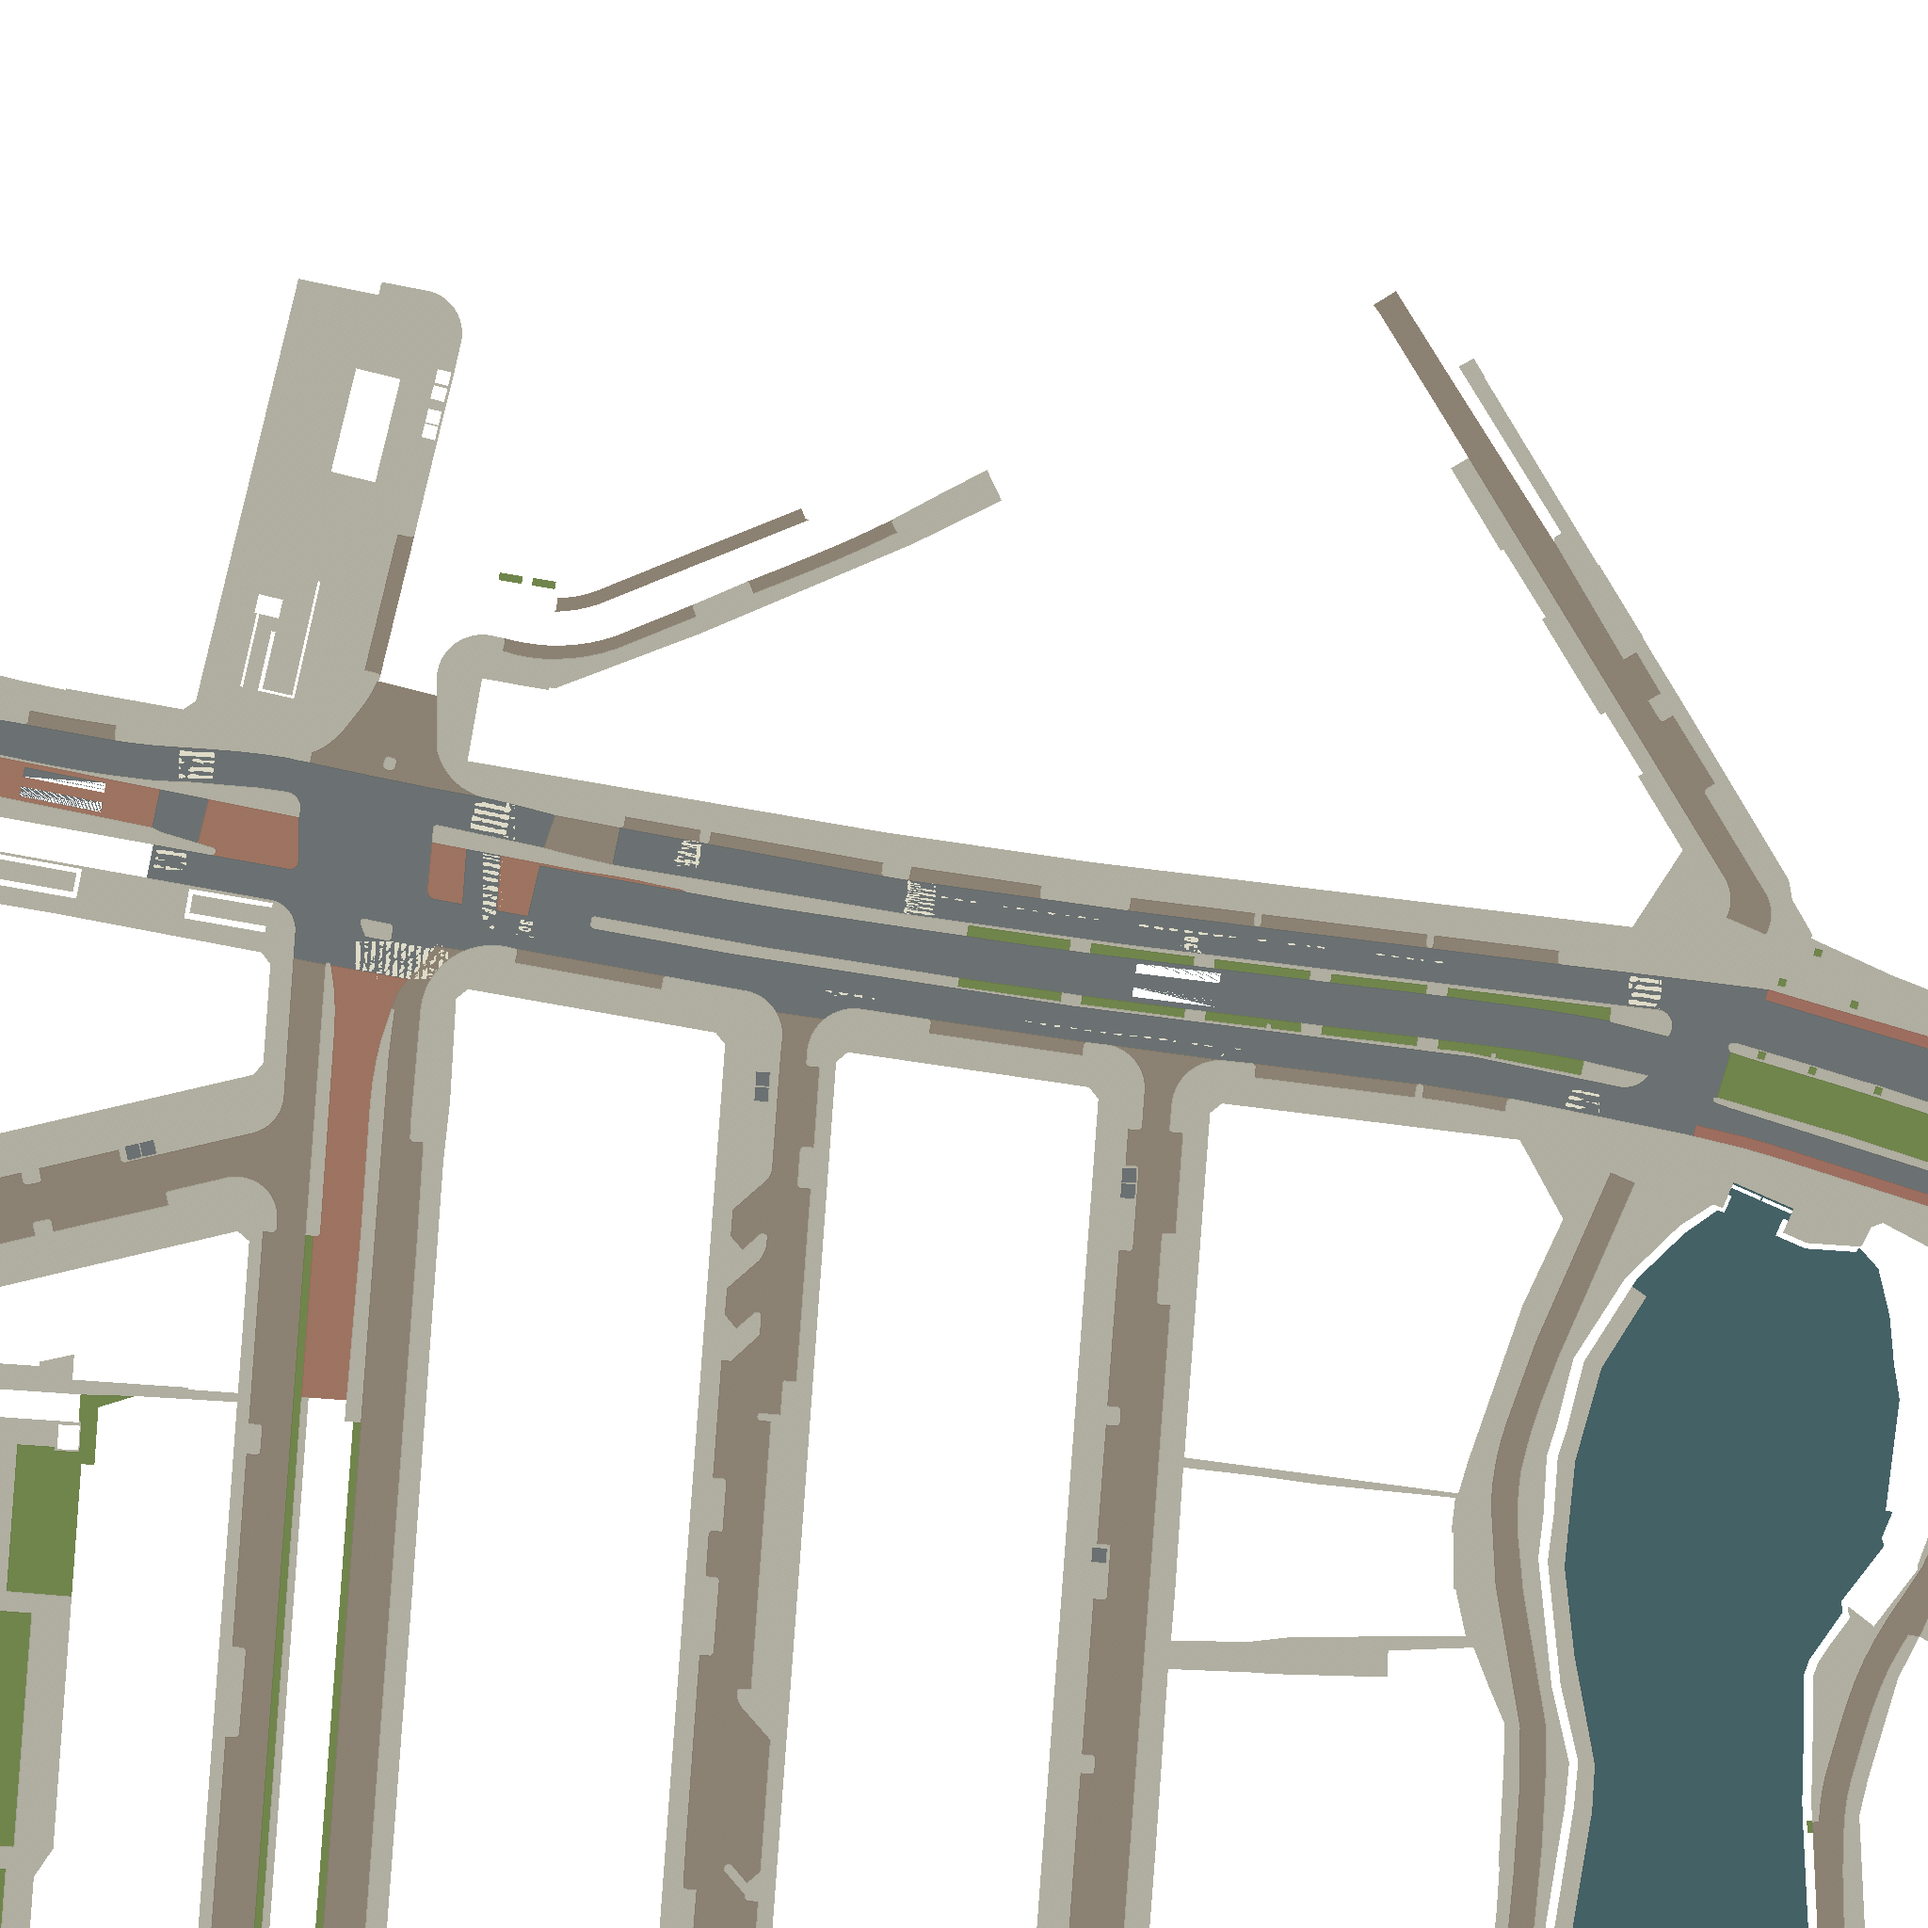
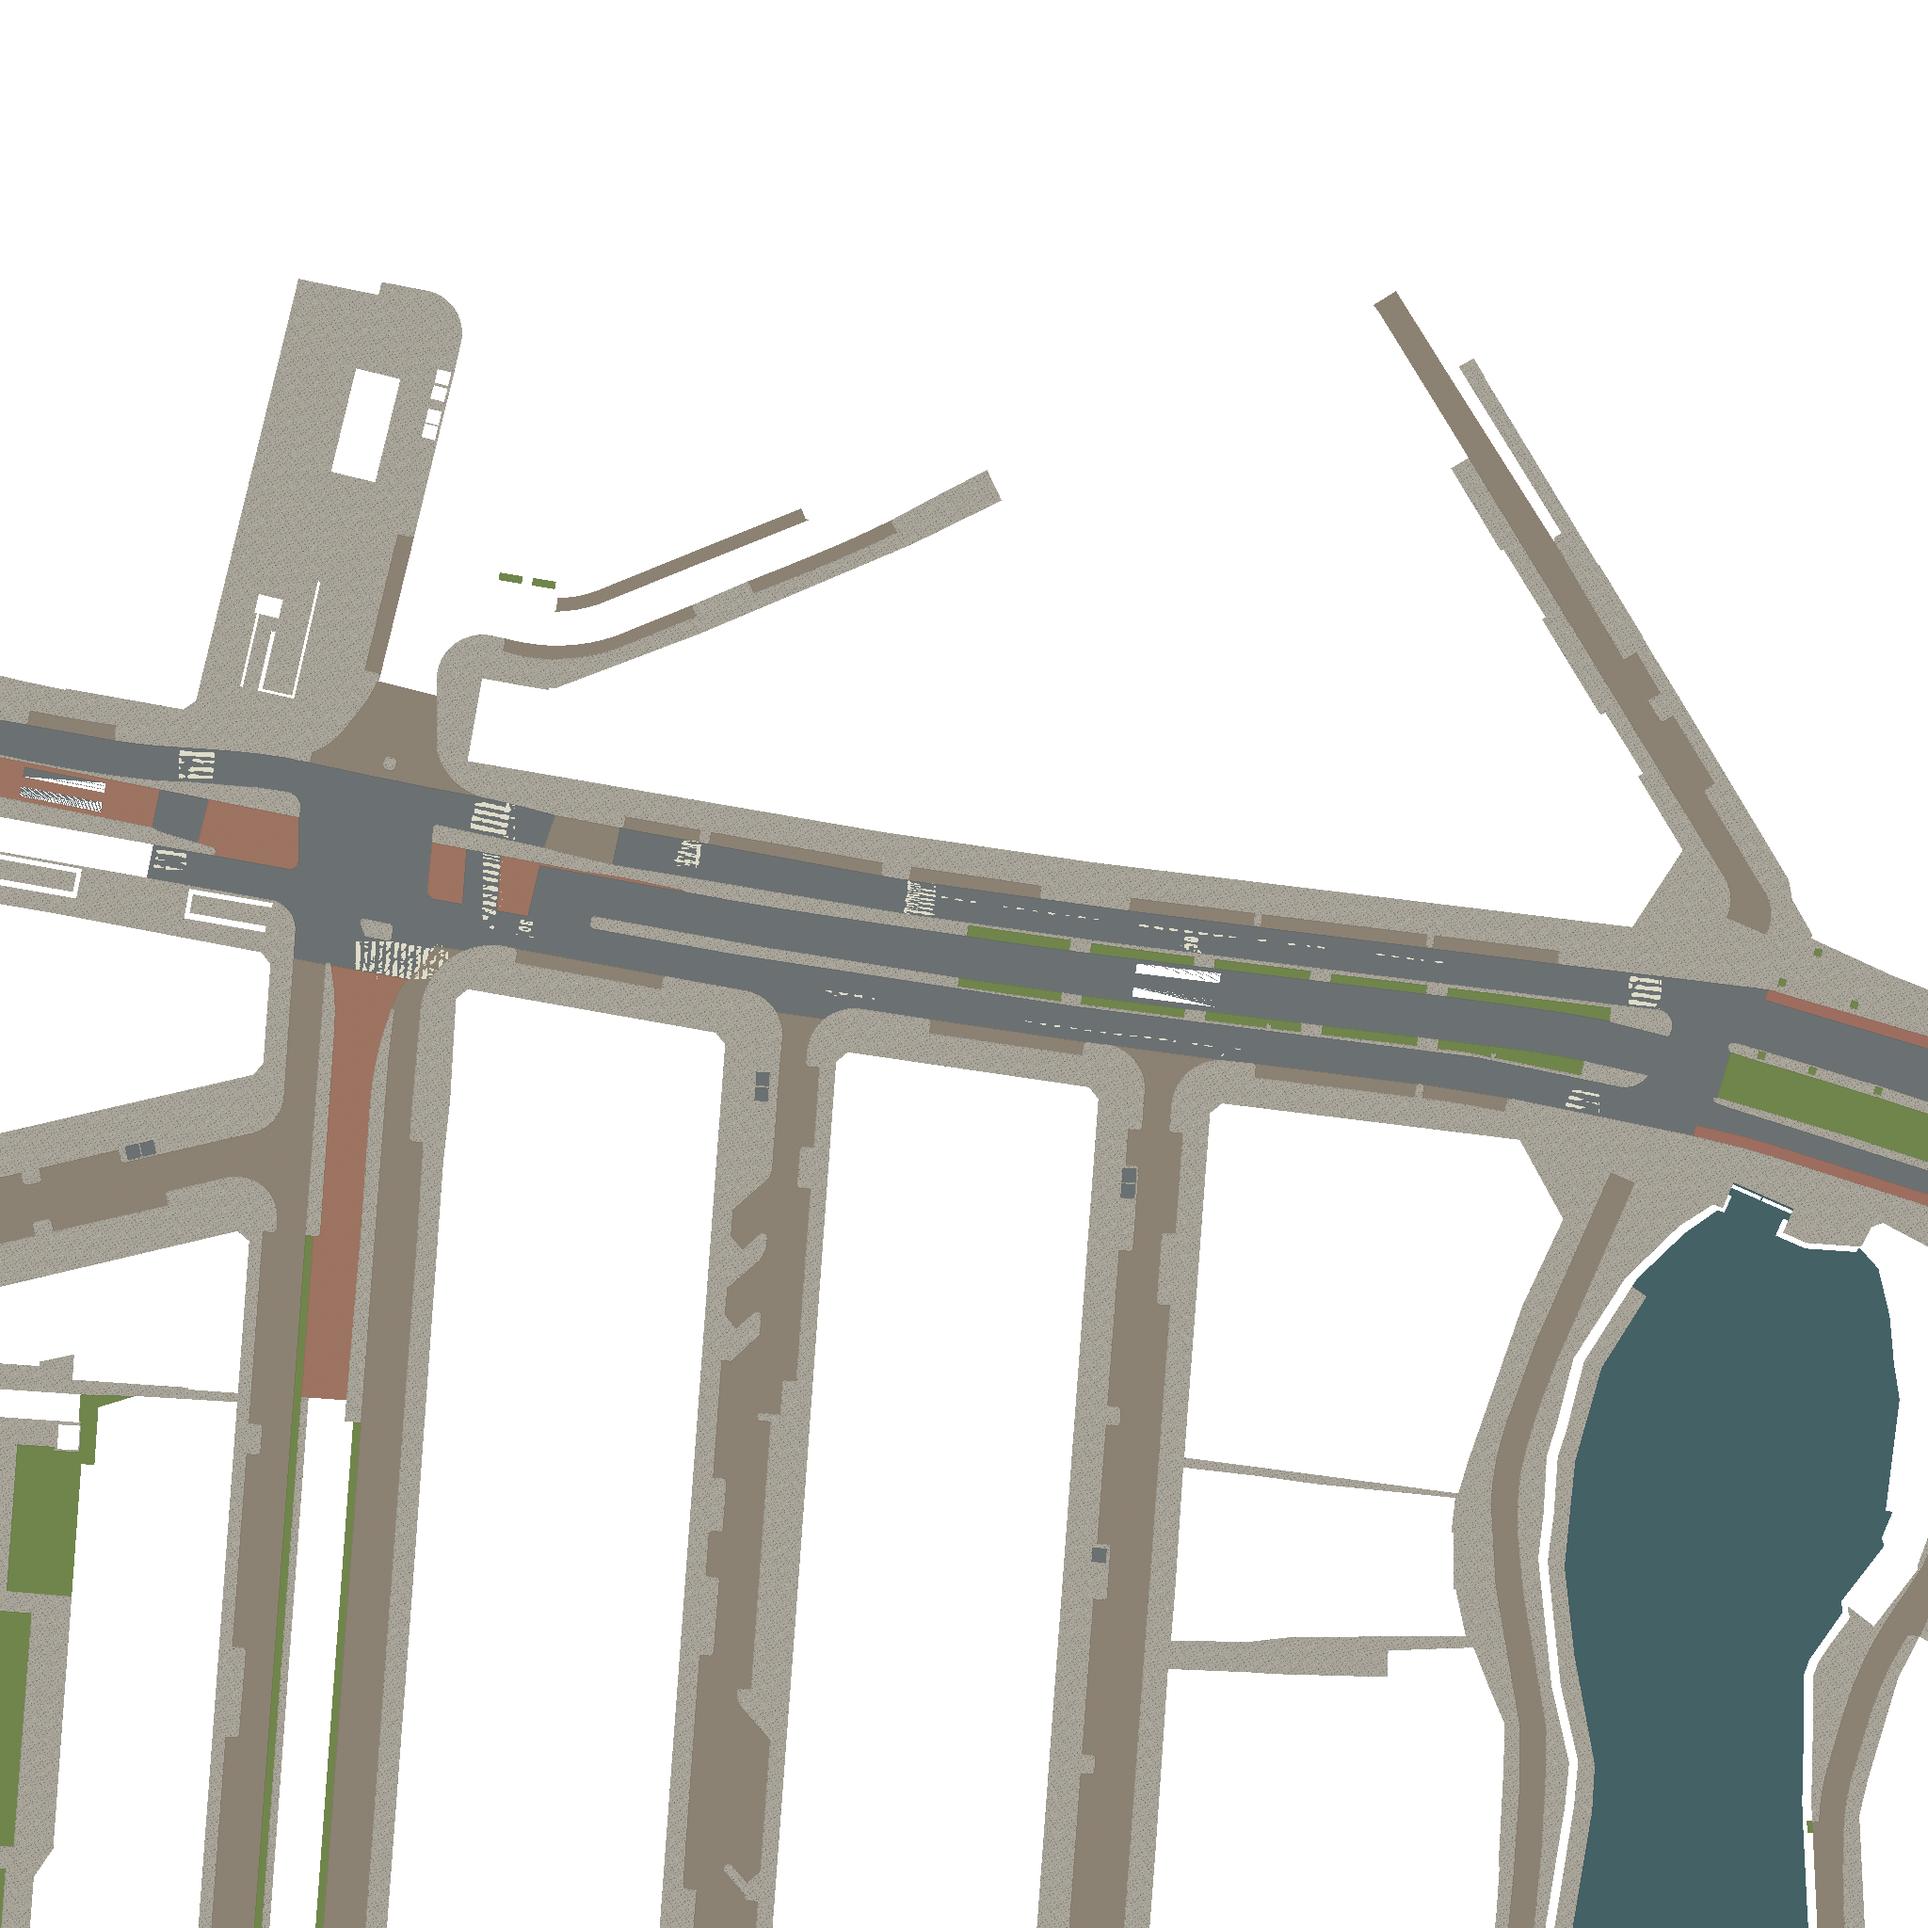
Bind local drawn pavement units within surveyed footways

diff --git a/scripts/compile-neighbourhood-ground.py b/scripts/compile-neighbourhood-ground.py
@@ -16,6 +16,11 @@ along=(columns*np.cos(angle)+rows*np.sin(angle))*pixel
 across=(-columns*np.sin(angle)+rows*np.cos(angle))*pixel
 rgb=np.zeros((height,width,3),float);eligible=surface['surface']>0;material=np.zeros((height,width),np.uint8)
 colours={1:[107,113,114],2:[157,110,95],3:[179,177,163],4:[112,133,76],5:[68,97,102],6:[143,132,117],7:[160,118,99]}
+pavingPath=source/'drawing/pavement-material.png'
+paving=np.array(Image.open(pavingPath).convert('RGB'),float)
+# Nine drawn units span2.7m; the source-bound atlas therefore keeps .30m units.
+pavingCoordinates=[np.mod(across,2.7)/2.7*(paving.shape[0]-1),np.mod(along,2.7)/2.7*(paving.shape[1]-1)]
+pavingField=np.stack([ndimage.map_coordinates(paving[:,:,channel],pavingCoordinates,order=1,mode='wrap') for channel in range(3)],axis=-1)
 sourceIds=[]
 for record in metadata['features']:
  mask=feature==record['batchId'];a=record['attributes'];physical=a.get('FYSIEKVK','').lower();purpose=a.get('FUNCTIE','').lower();kind=int(surface['surface'][mask][0]) if mask.any() else 0
@@ -36,7 +41,7 @@ for record in metadata['features']:
    return np.clip((pixel*.5+lineWidth*.5-distance)/pixel,0,lineWidth/pixel)
   coverage=np.maximum(joint_coverage(along),joint_coverage(across))
   field-=coverage*.22
- rgb[mask]=np.array(colours[kind])*field[mask,None]
+ rgb[mask]=pavingField[mask] if kind==3 else np.array(colours[kind])*field[mask,None]
 # Exact source material boundaries are quietly inked inside the native footprint.
 edge=np.zeros_like(eligible)
 for axis in [0,1]:
@@ -57,5 +62,5 @@ road=np.isin(material,[1,2,6,7]);paint&=eligible&road;rgb[paint]=[222,219,200]
 nearest=ndimage.distance_transform_edt(~eligible,return_distances=False,return_indices=True);rgb[~eligible]=rgb[nearest[0][~eligible],nearest[1][~eligible]]
 rgba=np.dstack([np.clip(rgb,0,255).astype('uint8'),eligible.astype('uint8')*255]);Image.fromarray(rgba).save(out/'neighbourhood-ground.png')
 preview=rgba[:,:,:3].copy();preview[~eligible]=[42,46,48];Image.fromarray(preview).save(work/'drawn-ground-review.png')
-manifest={k:metadata[k] for k in ['boundsRD','imageSize','worldToImageUV','sourceDecodedSha256','orthophotoSha256','projectionMaximumErrorPixels']};manifest.update(status='review-candidate',texture='neighbourhood-ground.png',areaId='adjoining-neighbourhood',sourceFeatureIds=sourceIds,eligiblePixels=int(eligible.sum()),paintPixels=int(paint.sum()),interpretation='Exact source material footprints and observed crossing fragments. Small quiet local paving joints follow observed street axes; generated geographic bands are excluded. Source OV reservation remains red-brown.',notSurveyed='Individual paving unit boundaries and .30/.21m drawing units are approximate illustration, not measured slab inventory.',acceptance='Unaccepted whole-neighbourhood actual city candidate.')
+manifest={k:metadata[k] for k in ['boundsRD','imageSize','worldToImageUV','sourceDecodedSha256','orthophotoSha256','projectionMaximumErrorPixels']};manifest.update(status='review-candidate',texture='neighbourhood-ground.png',areaId='adjoining-neighbourhood',sourceFeatureIds=sourceIds,eligiblePixels=int(eligible.sum()),paintPixels=int(paint.sum()),pavementMaterialSha256=hashlib.sha256(pavingPath.read_bytes()).hexdigest(),interpretation='Model-drawn local .30m pavement units inside exact source footway regions. Exact source material footprints and observed crossing fragments. Small quiet local paving joints follow observed street axes; generated geographic bands are excluded. Source OV reservation remains red-brown.',notSurveyed='Individual paving unit boundaries and .30/.21m drawing units are approximate illustration, not measured slab inventory.',acceptance='Unaccepted whole-neighbourhood actual city candidate.')
 (out/'manifest.json').write_text(json.dumps(manifest,indent=2)+'\n');(source/'drawing/source-marking-review.json').write_text(json.dumps({'sourceSha256':metadata['orthophotoSha256'],'regions':regions,'method':'Observed crossing bars retain source local-contrast support only; no gap filling. Existing reviewed source paint retained at exact RD coordinates.'},indent=2)+'\n');print(json.dumps({'features':len(sourceIds),'paintPixels':int(paint.sum())}))
